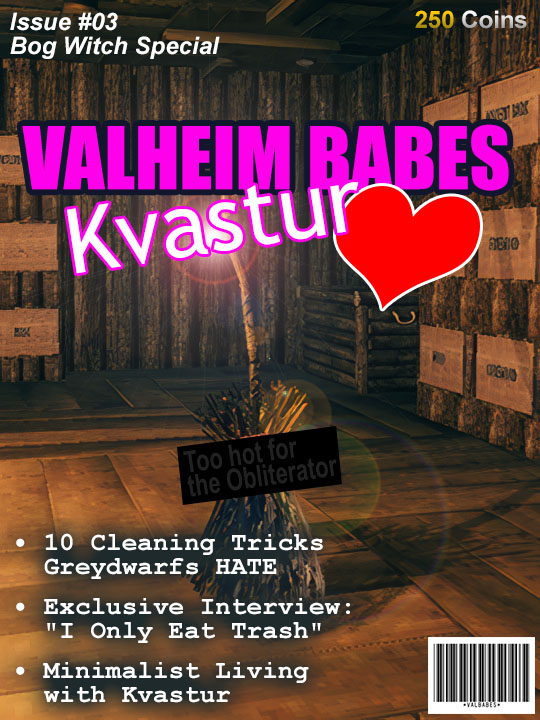
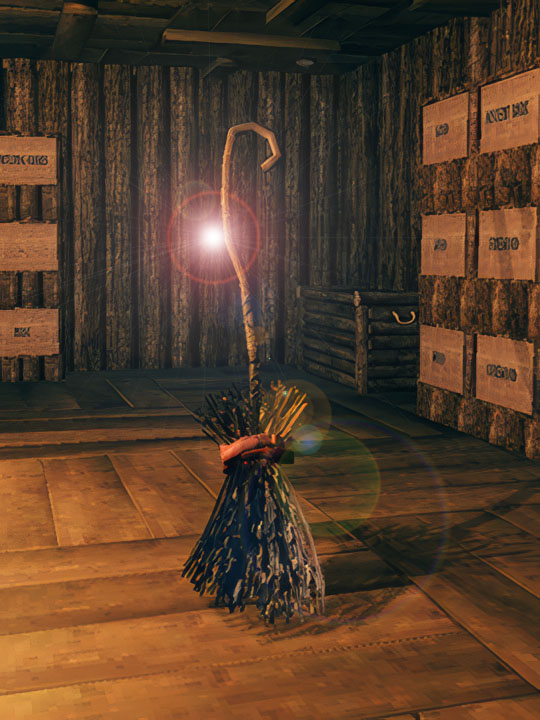
update

diff --git a/Data/Dvergr/Creatures/Kvastur.html b/Data/Dvergr/Creatures/Kvastur.html
@@ -61,7 +61,10 @@
               <p class="infobox-subtitle"></p>
             </div>
 
-            <img src="../../../assets/screens/OTAB_Kvastur.jpg" class="infobox-image">
+            <div class="hover-image">
+              <img src="../../../assets/screens/OTAB_Kvastur.jpg" class="infobox-image normal">
+              <img src="../../../assets/screens/OTAB_Kvastur_Special.jpg" class="infobox-image hover">
+            </div>
 
             <section class="infobox-section">
 
